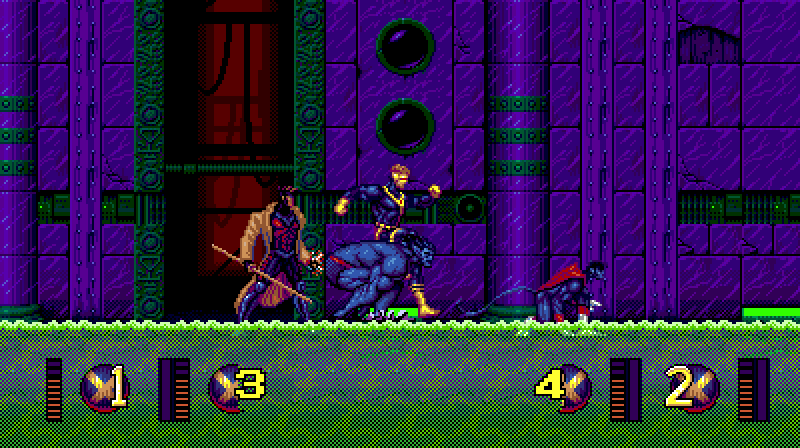
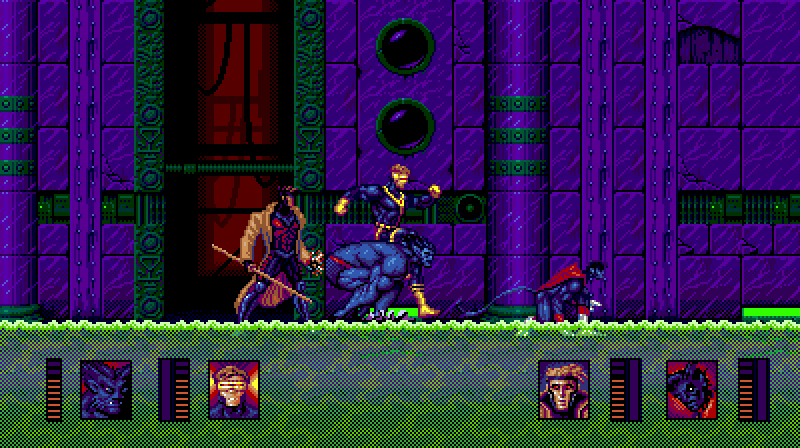
README: the four-player select and the new HUD in the screenshots
The Savage Land still (stage input scene30, four players, runner frame
840) again with the portrait HUD in 1-2-3-4 order; the scene is the same
pixel for pixel. The Bani Maza ruins give way to the four-player
character select with Magneto (pillarboxed: Cerebro screens stay 4:3 in
the 16:9 view), and Siberia moves up beside the throne room.

diff --git a/README.md b/README.md
@@ -6,10 +6,11 @@ at the full 60 fps, and up to four players, on one PC or online.
 
 | | |
 |---|---|
-| ![Magneto's throne room in 16:9](docs/media/magneto.png) | ![The Bani Maza ruins in 16:9](docs/media/bani-maza.png) |
-| ![Two players in Siberia, in 16:9](docs/media/siberia.png) | ![Four players in the Savage Land, in 16:9](docs/media/savage-land.png) |
+| ![Magneto's throne room in 16:9](docs/media/magneto.png) | ![Two players in Siberia, in 16:9](docs/media/siberia.png) |
+| ![Four players choosing their characters](docs/media/select.png) | ![Four players in the Savage Land, in 16:9](docs/media/savage-land.png) |
 
-*Screenshots from the port at 16:9 (the original is 4:3), with one, two and four players.*
+*Screenshots from the port at 16:9 (the original is 4:3; its Cerebro screens, like the character
+select, stay 4:3), with one, two and four players.*
 
 **You need your own copy of the game.** Nothing of the cartridge is in this repository or
 in the downloads. The port reads the graphics, sound and levels from your ROM file every time
